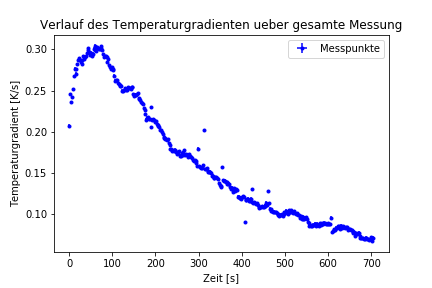
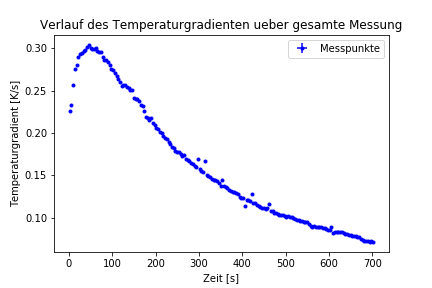
Protokoll Probe fertig

diff --git a/PH/Protokoll/Magnetische Phasenuebergaenge.tex b/PH/Protokoll/Magnetische Phasenuebergaenge.tex
@@ -82,8 +82,8 @@ Der Lockin-Verstärker integriert das Signal über einen einstellbaren Zeitraum,
 Die Empfindlichkeit $s$ des Lockin-Verstärkers wird angegeben in der Spannung, die auf \SI{10}{V} verstärkt wird, sodass sich der Verstärkungsfaktor zu $v = \frac{\SI{10}{V}}{s}$ berechnet. \\
 Das Referenzsignal wird auf den Eingang des Lockin-Verstärkers gelegt. Die Frequenz des Referenzsignals wird durchgefahren, um ein geeignetes Verhältnis zwischen Referenzfrequenz und Integrationszeit zu finden. Tabelle \ref{tab:Zeitkonst_Einstellungen} zeigt die verwendeten Einstellungen.
 
-\subsection{Hauptversuch}
-\subsubsection{Messung des Supraleiters}
+
+\subsection{Messung des Supraleiters}
 
 \begin{table}
 \centering
@@ -101,6 +101,8 @@ Filterfrequenz & \SI{380}{Hz} \\
 \hline 
 Phasenschieber & $\varphi$ = 84.5$^{\circ}$ \\ 
 \hline 
+Messintervall & \SI{200}{ms} \\ 
+\hline 
 \end{tabular} 
 \caption{Einstellungen für die Messung des Supraleiters.}
 \label{tab:Supra_Einstellungen}
@@ -110,7 +112,7 @@ Tabelle \ref{tab:Zeitkonst_Einstellungen} zeigt die Einstellungen, die für die 
 Der Messstab mit dem Supraleiter wird zunächst mit einer Pumpe evakuiert und anschließend mit Helium als Kontaktgas befüllt. Das Ende des Stabes, an dem die Messeinrichtung sitzt, wird zum Kühlen in einen mit flüssigem Stickstoff gefüllten Dewar getaucht und auf ca. \SI{80}{K} gekühlt. Für die Messung wird anschließend der Messstab aus dem Stickstoff herausgezogen, allerdings nur so weit, dass die Erwärmungsrate $\frac{\Delta T}{\Delta t}$ unter \SI{0,1}{K/s} bleibt. Dies ist wichtig, um sicherzustellen, dass zu jedem Zeitpunkt eine möglichst homogene Temperaturverteilung gegeben ist. Während der Erwärmung von \SI{80}{K} auf ca. \SI{120}{K} wird die Temperatur und die Differenzspannung zwischen den beiden Empfängerspulen des Hartshorn-Spulensystems gemessen. \\
 Diese Messung wird einmal ohne Probe als Untergrundmessung zur Korrektur und zweimal mit dem Supraleiter durchgeführt: Einmal mit einer Phasenverschiebung zwischen Eingangssignal und Referenzsignal des Lockin-Verstärkers von $\varphi = 0$ und einmal mit einer Phasenverschiebung von $\varphi = \frac{\pi}{2}$, sodass der Realteil ($\varphi = 0$) und der Imaginärteil ($\varphi = \frac{\pi}{2}$) der Suszeptibilität gemessen werden.
 
-\subsubsection{Messung der Probe}
+\subsection{Messung der Probe}
 Bei der Vermessung der GdAg$_{1-x}$Zn$_x$-Probe wird nur der Imaginärteil gemessen. Die Messung wurde ebenfalls bei ca. \SI{80}{K} gestartet, jedoch bis ca. \SI{190}{K} aufgenommen. Aufgrund eines betragsgroßen Offset war der Betrag der an den Lockin-Verstärker angelegten Spannung zu groß, sodass hier die Sensitivität auf \SI{1}{mV} erhöht werden musste.
 
 \section{Ergebnisse}
@@ -119,9 +121,8 @@ Bei der Vermessung der GdAg$_{1-x}$Zn$_x$-Probe wird nur der Imaginärteil gemes
 \subsubsection{Untersuchung der Filter des Lockin-Verstärkers}
 \subsubsection{Signalfiltern mit Tiefpass und Hochpass}
 \subsubsection{Zeitkonstante und Empfindlichkeit}
-\subsection{Hauptversuch}
-\subsubsection{Messung des Supraleiters}
-\subsubsection{Messung der Probe}
+\subsection{Messung des Supraleiters}
+\subsection{Messung der Probe}
 
 \begin{figure}
 \centering
@@ -151,13 +152,15 @@ der Entmagnetisierungsfaktor und
 \begin{equation*}
 v = \dfrac{\SI{10}{V}}{s}
 \end{equation*}
-der Verstärkungsfaktor, wobei $s$ die Sensitivität ist, die in diesem Versuch auf \SI{1}{mV} gestellt werden musste, da der Lockin-Verstärker ansonsten in einen Overload gelaufen wäre. Abbildung \ref{fig:Suszeptibilitaet_Verlauf} zeigt den Verlauf der Suszeptibilität der Probe über die gesamte Messung. \\
+der Verstärkungsfaktor, wobei $s$ die Sensitivität ist, die in diesem Versuch auf \SI{1}{mV} gestellt werden musste, da der Lockin-Verstärker ansonsten in einen Overload gelaufen wäre. Abbildung \ref{fig:Suszeptibilitaet_Verlauf} zeigt den Verlauf der Suszeptibilität der Probe über die gesamte Messung. 
+
+\subsubsection{Curie-Weiss-Gesetz}
 Für einen Temperaturbereich deutlich oberhalb der Grenztemperatur $T_C$ gilt der Zusammenhang:
 \begin{equation*}
 \chi ^{-1} = \dfrac{T - T_C}{C_{Curie}}
 \end{equation*}
 Dabei ist $C_{Curie}$ die materialabhängige Curie-Konstante. Daher ergibt sich bei Auftragung von $\chi ^{-1}$ gegen T ein linearer Zusammenhang. In Abbildung \ref{fig:Suszeptibilitaet_Verlauf} ist zu erkennen, dass die Grenztemperatur bei ca. \SI{160}{K} liegt, sodass der Bereich für diese Anpassung gewählt wird zu \SI{180}{K} - \SI{190}{K}. \\
-Mit dieser Anpassung wird der Offset gewählt. Dazu wird die Anpassung für verschiedene Offsets in einem Bereich von \SI{0}{V} bis \SI{1,8}{V} in 10000 äquidistanten Schritten durchgeführt und derjenige Offset verwendet, der in der Anpassung das niedrigste $\chi ^2$/ndof ergeben hat.
+Mit dieser Anpassung wird der Offset gewählt. Dazu wird die Anpassung für verschiedene Offsets in einem Bereich von \SI{0}{V} bis \SI{1,8}{V} in 10000 äquidistanten Schritten durchgeführt und derjenige Offset verwendet, der in der Anpassung das niedrigste $\chi ^2$/ndof ergeben hat. Dieses liegt mit 0.34 zu niedrig, es wurden also vermutlich die Fehler überschätzt.
 
 \begin{figure}
 \centering
@@ -167,21 +170,88 @@ Mit dieser Anpassung wird der Offset gewählt. Dazu wird die Anpassung für vers
 \end{figure}
 
 Abbildung \ref{fig:CurieWeiss} zeigt die lineare Anpassung bei dem bestimmten Offset. Die Grenztemperatur berechnet sich aus den Anpassungsparametern zu:
-\begin{equation*}
+\begin{equation}
 T_C = -\dfrac{b}{a}
-\end{equation*}
-Die Fehler auf die Parameter pflanzt sich fort zu:
-\begin{equation*}
+\label{eq:ProbeGrenztemperatur}
+\end{equation}
+Die Fehler auf die Parameter pflanzen sich fort zu:
+\begin{equation}
 \dfrac{\sigma _{T_C}}{T_C} = \sqrt{\left( \dfrac{\sigma _a}{a} \right)^2 + \left( \dfrac{\sigma _b}{b} \right)^2}
-\end{equation*}
+\label{eq:ProbeGrenztemperaturFehler}
+\end{equation}
 Der Wert für die Grenztemperatur ergibt sich zu (systematische Fehler werden später betrachtet):
 \begin{equation*}
-T_C = \SI{162,800 \pm 0,057}{K}
-\end{equation*}\\
+T_C^{(1)} = \SI{162,800 \pm 0,057}{K}
+\end{equation*}
+
+\subsubsection{Temperaturen nahe der Grenztemperatur}
+
+\begin{figure}
+\centering
+\includegraphics[scale=1]{Bilder/Haupt_Probe/CurieWeiss_gamma.png}
+\caption[test]{Lineare Anpassung bei Auftragung von $\chi ^{\frac{-1}{\gamma}}$ gegen T in einem Bereich von \SI{170}{K} - \SI{180}{K}.}
+\label{fig:CurieWeiss_gamma}
+\end{figure}
+
 In einem Bereich nah an der Grenztemperatur wird der Zusammenhang besser beschrieben durch:
 \begin{equation*}
 \chi ^{-1} \propto (T - T_C)^\gamma
 \end{equation*}
+Wobei für den kritischen Exponenten des Phasenübergangs $\gamma \approx \dfrac{4}{3}$ gilt. \\
+Es wird der Offset verwendet, der sich bei der ersten Anpassung als der beste herausgestellt hat. \\
+Bei Auftragung von $\chi ^{\frac{-1}{\gamma}}$ gegen T ergibt sich erneut ein linearer Zusammenhang, an den ebenfalls eine Anpassung durchgeführt wird. Der Bereich für diese Anpassung wurde gewählt zu \SI{170}{K} - \SI{180}{K}. Diese Anpassung ist in Abbildung \ref{fig:CurieWeiss_gamma} dargestellt. Die Anpassung kann bei einem $\chi ^2$/ndof von 2.84 als gelungen betrachtet werden. Die Grenztemperatur und der Fehler bestimmen sich gemäß Gl. \ref{eq:ProbeGrenztemperatur} und Gl. \ref{eq:ProbeGrenztemperaturFehler} zu:
+\begin{equation*}
+T_C^{(2)} = \SI{156,862 \pm 0,061}{K}
+\end{equation*}
+
+\subsubsection{Temperaturgradient}
+
+\begin{figure}
+\centering
+\includegraphics[scale=1]{Bilder/Haupt_Probe/Temperatur_Verlauf.png}
+\caption[test]{Temperaturverlauf bei der Messung der Probe.}
+\label{fig:TemperaturverlaufProbe}
+\end{figure}
+
+\begin{figure}
+\centering
+\includegraphics[scale=1]{Bilder/Haupt_Probe/Temperaturgradient_Verlauf.png}
+\caption[test]{Verlauf des Temperaturgradienten bei der Messung der Probe.}
+\label{fig:TemperaturgradientverlaufProbe}
+\end{figure}
+
+Bei der Messung wird in Intervallen \SI{200}{ms} u.a. die Temperatur gemessen. Damit ergibt sich der in Abbildung \ref{fig:TemperaturverlaufProbe} gezeigte Temperaturverlauf. \\
+Den Temperaturgradienten erhält man nun aus der Ableitung des Temperaturverlaufs. Da die Datenpunkte deutlich schwanken, wird diese Ableitung bestimmt, indem immer an 20 Punkte eine lineare Regression durchgeführt wird. Der Mittelwert der Zeiten der 20 Temperaturpunkte und die Steigung ergeben dann Punktepaare des Temperaturgradienten. Der Verlauf des Temperaturgradienten ist in Abbildung \ref{fig:TemperaturgradientverlaufProbe} dargestellt. Daran ist deutlich zu sehen, dass der Temperaturgradient bei der Messung der Probe bis zu einer Temperatur von ca. \SI{180}{K} oberhalb der ursprünglich gesetzten Grenze von \SI{0,1}{K/s} liegt.
+
+\subsubsection{Systematischer Fehler}
+Die statistischen Fehler auf die aus den beiden Methoden bestimmten Grenztemperaturen sind sehr klein gegen die Differenz der beiden. Daher ist eine Betrachtung der Systematiken sehr wichtig. \\
+Fehlerquelle, die als systematisch betrachtet werden kann, sind die Fehler auf die Werte, die zur Umrechnung von der Spannung auf die Suszeptibilität verwendet werden. Die Fehler pflanzen sich fort durch: 
+\begin{equation*}
+\dfrac{\sigma _{\chi}}{\chi} = \sqrt{\left( \dfrac{\sigma _C}{C} \right)^2 + \left( \dfrac{\sigma _v}{v} \right)^2 + \left( \dfrac{\sigma _V}{V} \right)^2 + \left( \dfrac{\sigma _{n_M}}{1 - n_M} \right)^2}
+\end{equation*}
+Dabei entstammt der Fehler auf die Kalibrationskonstante der Bestimmung derselben. Der Fehler auf das Probenvolumen bestimmt sich durch gaußsche Fehlerfortpflanzung aus den Ablesefehlern auf die mit einer Schieblehre gemessenen Dimensionen der Probe. Auf den Entmagnetisierungfaktor wird der Digitalisierungsfehler angenommen und auf den Verstärkungsfaktor ein Fehler von 5\% angenommen. Nun wird die Suszeptibilität um diesen Fehler in beide Richtungen verschoben und die Anpassungen erneut durchgeführt. Aus der Veränderung des Ergebnisses für die Grenztemperatur ergibt sich der systematische Fehler aus den Fehlern auf Kalibrationskonstante, Probenvolumen, Verstärkungsfaktor und Entmagnetisierungsfaktor, sodass sich insgesamt für die Grenztemperaturen die folgenden Werte ergeben:
+\begin{equation*}
+T_C^{(1)} = (162,800 \pm 0,057 \; (stat.) \; \; ^{+0,0000090}_{-0,0000086} \; (sys.)) \, \si{K}
+\end{equation*}
+\begin{equation*}
+T_C^{(2)} = (156,8623 \pm 0,0615 \; (stat.) \; \; ^{+5,9370}_{-0,0030} \; (sys.)) \, \si{K}
+\end{equation*}
+Drei der vier Fehler (vier Fehler durch die Asymmetrie) sind eine Größenordnung oder mehr kleiner als die statistischen Fehler. Der vierte Fehler ist zwei Größenordnungen größer als der statistische Fehler und sorgt dafür, dass die beiden Werte für die Grenztemperatur innerhalb ihrer Fehler übereinstimmen. Woher der große Unterschied der systematischen Fehler kommt, ist unklar. \\
+Dazu kommt noch ein Fehler durch den zu hohen Temperaturgradienten während der Messung. Den Betrag dieses Fehlers abzuschätzen ist schwierig. Da sich allerdings die Si-Diode, die zur Messung der Temperatur verwendet wird, unter dem Hartshorn-Spulensystem befindet, ist die gemessene Temperatur bei zu großem Temperaturgradient kleiner als die Temperatur der Probe. Dies liegt daran, dass der Probenstab nicht vollständig aus dem Dewar gezogen wird, sodass die Kühlung, die das Aufwärmen verlangsamt, die Diode und das Spulensystem von unten kühlt. Da der Temperaturgradient in dem Bereich, in dem die Anpassung für $T_C^{(1)}$ durchgeführt wurde, kleiner ist, als der Bereich, in dem die Anpassung für $T_C^{(2)}$ durchgeführt wurde, ist davon auszugehen, dass dieser Effekt die beiden Werte ''zusammenschieben''  würde.
+
+\subsubsection{Zusammenfassung}
+
+\begin{figure}
+\centering
+\includegraphics[scale=1]{Bilder/Haupt_Probe/Anteilbestimmung.png}
+\caption[test]{Zusammensetzung der Probe in Abhängigkeit der Grenztemperatur\footnotemark.}
+\label{fig:AnteilbestimmungProbe}
+\end{figure}
+\footnotetext{Quelle: Versuchsanleitung Seite 32.}
+
+Die beiden Anpassungsbereiche haben Grenztemperaturen von $T_C^{(1)} = \SI{162,800 \pm 0,057}{K}$ und $T_C^{(2)} = \SI{156,862 \pm 0,061}{K}$ (mit statistischen Fehlern) ergeben. Die systematischen Fehler aus den Fehlern auf die Kalibrationskonstante, auf das Probenvolumen, auf den Verstärkungsfaktor und auf den Entmagnetisierungsfaktor wurden mit der Verschiebemethode bestimmt und sind asymmetrisch. Drei der vier systematischen Fehler sind deutlich kleiner als die statistischen, aber der vierte ist deutlich größer und sorgt alleine dafür, dass die Werte innerhalb ihrer Fehler übereinstimmen. Der Fehler durch einen zu großen Temperaturgradienten konnte nur qualitativ betrachtet werden, würde die Differenz der beiden Werte aber nochmal verringern. \\
+Mit der Grenztemperatur kann nun anhand Abbildung \ref{fig:AnteilbestimmungProbe} die Zusammensetzung der Probe durch Ablesen bestimmt werden. Bei einer Grenztemperatur um \SI{160}{K} ergibt sich so ein Zn-Anteil von $x = 0.75$. Damit handelt es sich um eine GdAg$_{0.25}$Zn$_{0.75}$-Probe.
+
 
 \section{Fazit}
 
